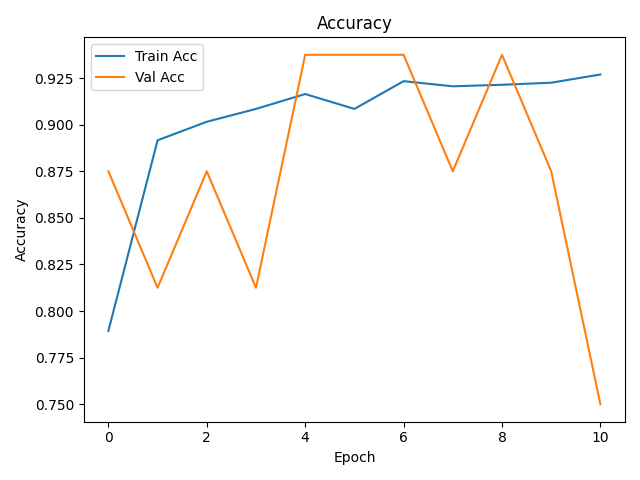
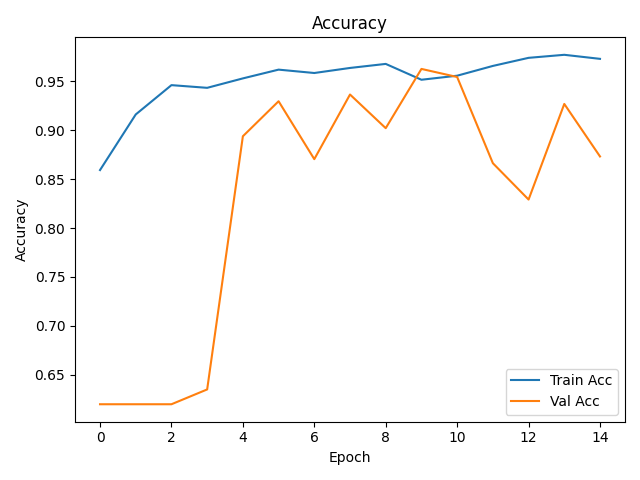
full training + plots

diff --git a/src/main.py b/src/main.py
@@ -1,0 +1,66 @@
+import os
+import matplotlib.pyplot as plt
+import numpy as np
+
+from src.data_loader import load_images_and_labels
+from src.preprocess import preprocess_data
+from src.model import build_model
+from src.evaluate import evaluate_model
+
+IMG_SIZE = (224, 224)
+DATA_DIR = "data/train"
+MODEL_SAVE_PATH = "saved_models/chest_xray_model.h5"
+PLOTS_DIR = "plots"
+os.makedirs(PLOTS_DIR, exist_ok=True)
+
+images, labels = load_images_and_labels(DATA_DIR, target_size=IMG_SIZE)
+X_train, X_test, y_train, y_test = preprocess_data(images, labels, test_size=0.2)
+
+model = build_model(input_shape=(IMG_SIZE[0], IMG_SIZE[1], 3))
+history = model.fit(
+    X_train, y_train,
+    validation_data=(X_test, y_test),
+    epochs=15, batch_size=32,
+    verbose=2
+)
+model.save(MODEL_SAVE_PATH)
+
+plt.figure()
+plt.plot(history.history['accuracy'], label='Train Acc')
+plt.plot(history.history['val_accuracy'], label='Val Acc')
+plt.title('Accuracy')
+plt.xlabel('Epoch'); plt.ylabel('Accuracy')
+plt.legend()
+plt.tight_layout(); plt.savefig(os.path.join(PLOTS_DIR, "train_val_accuracy.png"))
+plt.close()
+
+plt.figure()
+plt.plot(history.history['loss'], label='Train Loss')
+plt.plot(history.history['val_loss'], label='Val Loss')
+plt.title('Loss')
+plt.xlabel('Epoch'); plt.ylabel('Loss')
+plt.legend()
+plt.tight_layout(); plt.savefig(os.path.join(PLOTS_DIR, "train_val_loss.png"))
+plt.close()
+
+metrics = evaluate_model(MODEL_SAVE_PATH, X_test, y_test)
+
+from sklearn.metrics import roc_curve
+y_pred_probs = model.predict(X_test).flatten()
+fpr, tpr, _ = roc_curve(y_test, y_pred_probs)
+plt.figure()
+plt.plot(fpr, tpr, label="ROC Curve (AUC={:.2f})".format(metrics["auc"]))
+plt.title("ROC Curve")
+plt.xlabel("False Positive Rate"); plt.ylabel("True Positive Rate")
+plt.legend()
+plt.tight_layout(); plt.savefig(os.path.join(PLOTS_DIR, "roc_curve.png"))
+plt.close()
+
+from sklearn.metrics import ConfusionMatrixDisplay
+cm = metrics["confusion_matrix"]
+ConfusionMatrixDisplay(cm).plot()
+plt.title("Confusion Matrix")
+plt.tight_layout(); plt.savefig(os.path.join(PLOTS_DIR, "confusion_matrix.png"))
+plt.close()
+
+print("Model trained, evaluated, and all plots saved to ./plots/")

diff --git a/src/model.py b/src/model.py
@@ -1,16 +1,25 @@
-import tensorflow as tf
-from tensorflow.keras import layers, models
+from tensorflow.keras.models import Sequential
+from tensorflow.keras.layers import Conv2D, MaxPooling2D, Flatten, Dense, Dropout, BatchNormalization, Input
 
 def build_model(input_shape=(224, 224, 3)):
-    model = models.Sequential([
-        layers.Conv2D(32, (3,3), activation='relu', input_shape=input_shape),
-        layers.MaxPooling2D(2,2),
-        layers.Conv2D(64, (3,3), activation='relu'),
-        layers.MaxPooling2D(2,2),
-        layers.Flatten(),
-        layers.Dense(128, activation='relu'),
-        layers.Dropout(0.5),
-        layers.Dense(1, activation='sigmoid')
+    model = Sequential([
+        Input(shape=input_shape),
+        Conv2D(32, (3,3), activation='relu', padding='same'),
+        BatchNormalization(),
+        MaxPooling2D(2,2),
+
+        Conv2D(64, (3,3), activation='relu', padding='same'),
+        BatchNormalization(),
+        MaxPooling2D(2,2),
+
+        Conv2D(128, (3,3), activation='relu', padding='same'),
+        BatchNormalization(),
+        MaxPooling2D(2,2),
+
+        Flatten(),
+        Dense(128, activation='relu'),
+        Dropout(0.25),
+        Dense(1, activation='sigmoid')
     ])
     model.compile(optimizer='adam', loss='binary_crossentropy', metrics=['accuracy'])
     return model

diff --git a/src/data_loader.py b/src/data_loader.py
@@ -1,15 +1,19 @@
 import os
-import cv2
+from PIL import Image
 import numpy as np
 
-def load_data(data_dir: str, target_size=(224, 224)):
-    images, labels = [], []
-    for label in os.listdir(data_dir):
-        class_dir = os.path.join(data_dir, label)
-        for img_name in os.listdir(class_dir):
-            img_path = os.path.join(class_dir, img_name)
-            img = cv2.imread(img_path)
-            img = cv2.resize(img, target_size)
-            images.append(img)
-            labels.append(0 if label == "NORMAL" else 1)
+def load_images_and_labels(data_dir, target_size=(224, 224)):
+    images = []
+    labels = []
+    label_map = {'NORMAL': 0, 'PNEUMONIA': 1}
+    for label_name, label_val in label_map.items():
+        class_dir = os.path.join(data_dir, label_name)
+        if not os.path.isdir(class_dir):
+            continue
+        for fname in os.listdir(class_dir):
+            if fname.lower().endswith(('.jpg', '.jpeg', '.png')):
+                img_path = os.path.join(class_dir, fname)
+                img = Image.open(img_path).convert("RGB").resize(target_size)
+                images.append(np.array(img))
+                labels.append(label_val)
     return np.array(images), np.array(labels)

diff --git a/src/predict.py b/src/predict.py
@@ -2,9 +2,14 @@ from tensorflow.keras.models import load_model
 from PIL import Image
 import numpy as np
 
-def predict_image(model, img, target_size=(224,224)):
-    img = img.resize(target_size)
-    img = np.expand_dims(np.array(img)/255.0, axis=0)
-    pred = model.predict(img)[0][0]
+def predict_image(model_path, img, target_size=(224,224)):
+    model = load_model(model_path)
+    if isinstance(img, Image.Image):
+        img = img.resize(target_size)
+        img_array = np.array(img) / 255.0
+        img_array = np.expand_dims(img_array, axis=0)
+    else:
+        img_array = np.array(img).reshape((1,)+target_size+(3,)) / 255.0
+    pred = model.predict(img_array)[0][0]
     label = "Pneumonia" if pred > 0.5 else "Normal"
     return label, float(pred)

diff --git a/src/evaluate.py b/src/evaluate.py
@@ -1,5 +1,12 @@
-from sklearn.metrics import classification_report
+from tensorflow.keras.models import load_model
+from sklearn.metrics import accuracy_score, roc_auc_score, confusion_matrix
+import numpy as np
 
-def evaluate_model(model, X_test, y_test):
-    preds = (model.predict(X_test) > 0.5).astype(int)
-    print(classification_report(y_test, preds))
+def evaluate_model(model_path, X_test, y_test):
+    model = load_model(model_path)
+    y_pred_probs = model.predict(X_test).flatten()
+    y_pred = (y_pred_probs > 0.5).astype('int')
+    acc = accuracy_score(y_test, y_pred)
+    auc = roc_auc_score(y_test, y_pred_probs)
+    cm = confusion_matrix(y_test, y_pred)
+    return {"accuracy": acc, "auc": auc, "confusion_matrix": cm}

diff --git a/src/preprocess.py b/src/preprocess.py
@@ -1,5 +1,5 @@
 from sklearn.model_selection import train_test_split
 
-def preprocess_data(images, labels):
+def preprocess_data(images, labels, test_size=0.2, random_state=42):
     images = images / 255.0
-    return train_test_split(images, labels, test_size=0.2, random_state=42)
+    return train_test_split(images, labels, test_size=test_size, random_state=random_state)
